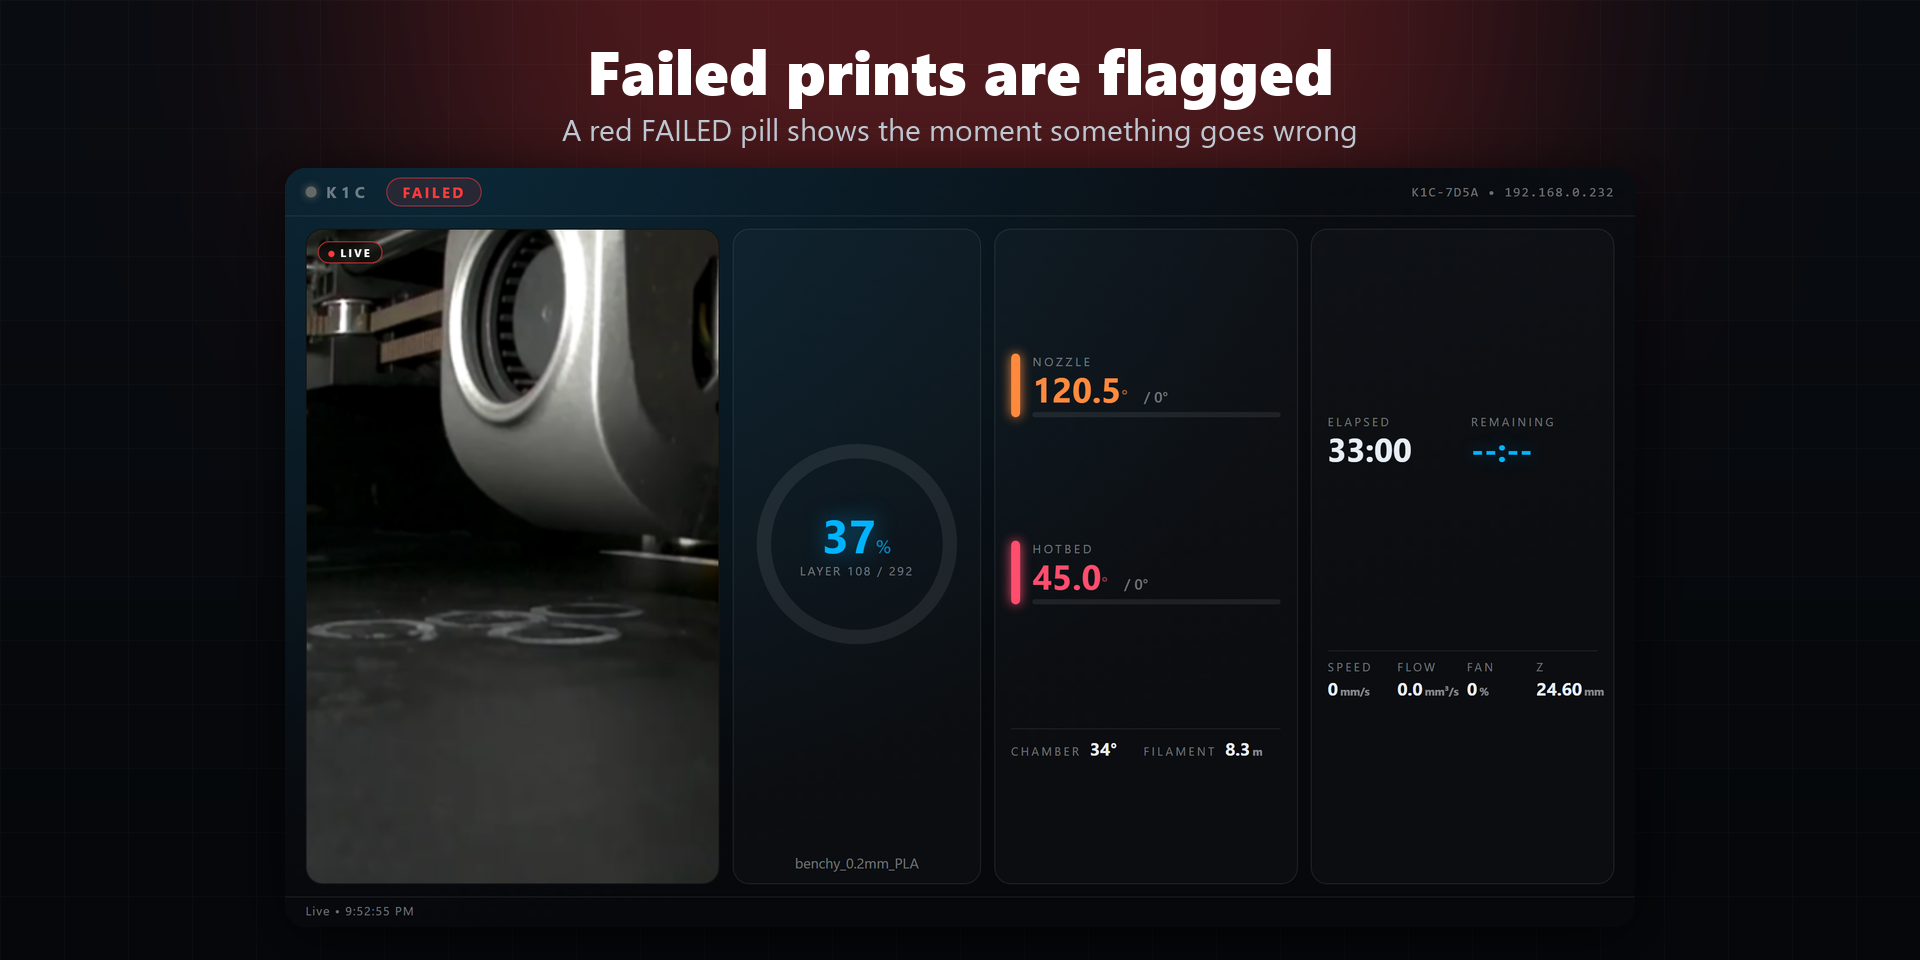
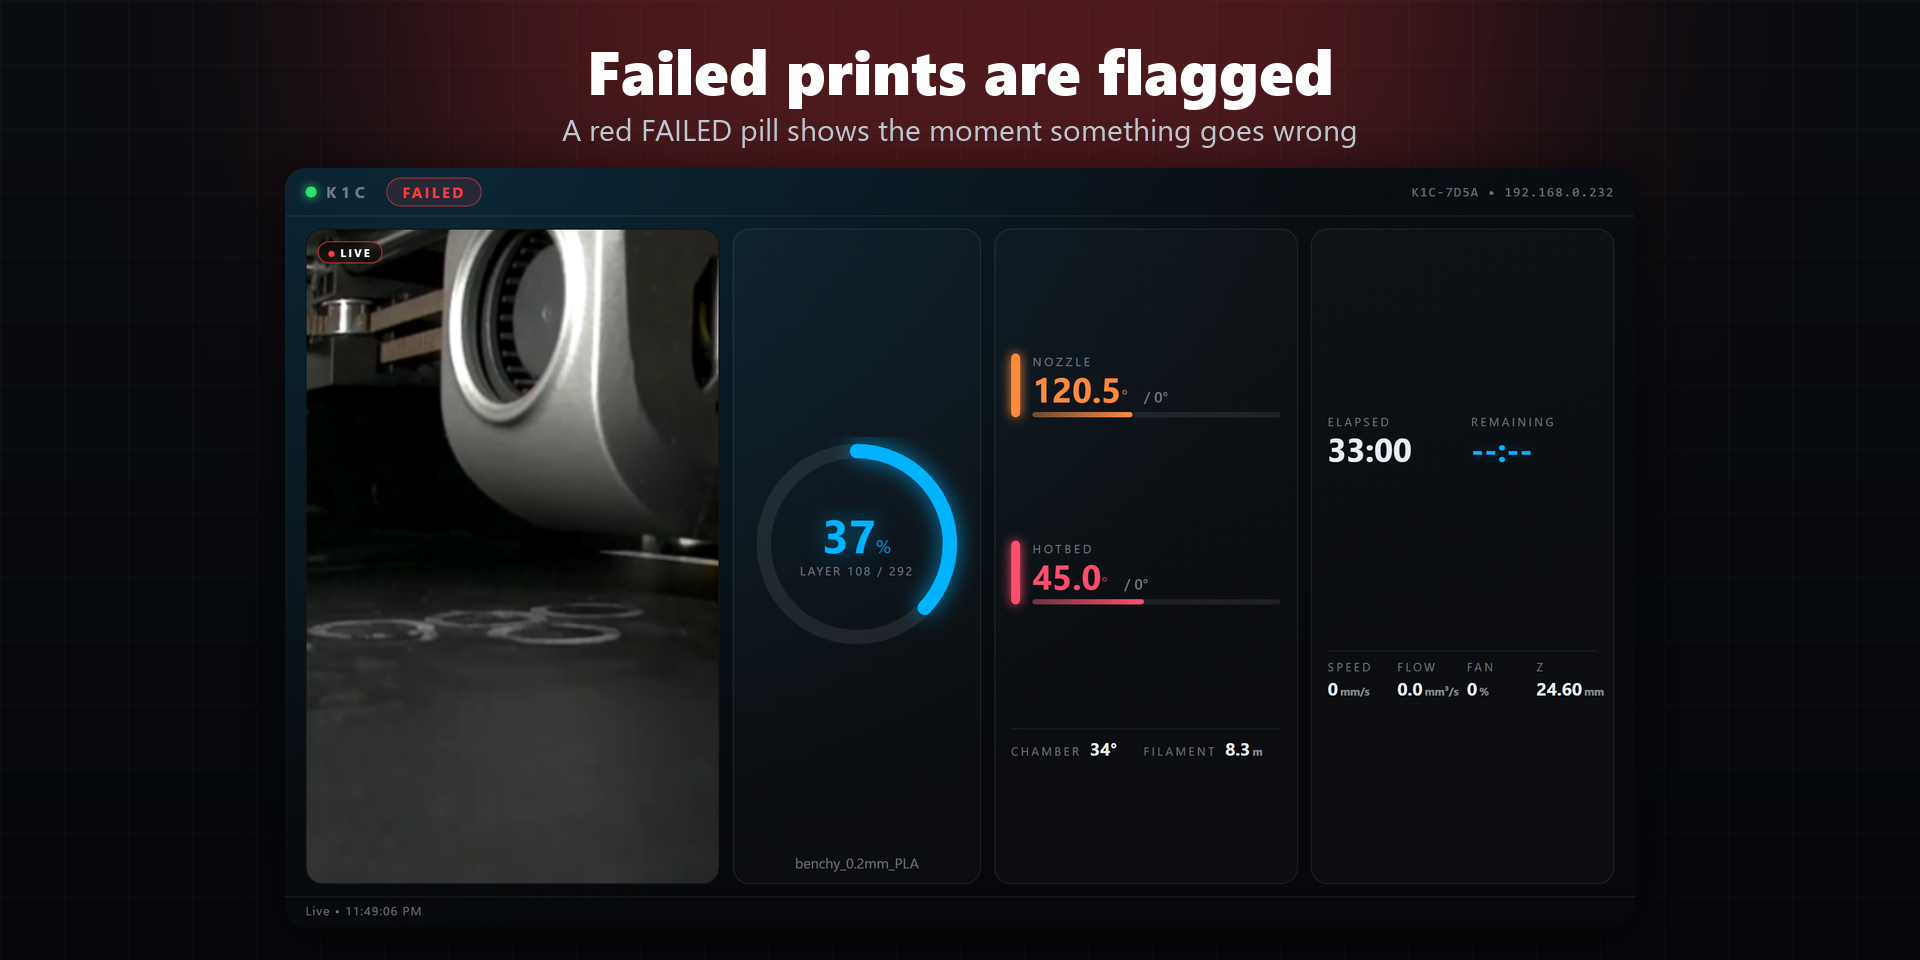
v1.3.2: fix state codes (5 = PAUSED, 4 = STOPPED), add PAUSING/STOPPING/STARTING

diff --git a/CrealityMonitor_Template/scripts/main.js b/CrealityMonitor_Template/scripts/main.js
@@ -63,14 +63,17 @@ function fmtClock(d) { return pad(d.getHours()) + ":" + pad(d.getMinutes()); }
 
 /* ----------------------------------------------------------- state labels */
 
-// Стойности на полето `state` при Creality K-серия
+// Стойности на полето `state` при Creality K-серия (потвърдени на K1C: 5 = пауза, 4 = спрян)
 var STATES = {
     0: { text: "IDLE",     cls: "" },
     1: { text: "PRINTING", cls: "" },
     2: { text: "COMPLETE", cls: "ok" },
     3: { text: "FAILED",   cls: "error" },
-    4: { text: "PAUSED",   cls: "warn" },
-    5: { text: "STOPPED",  cls: "warn" }
+    4: { text: "STOPPED",  cls: "warn" },
+    5: { text: "PAUSED",   cls: "warn" },
+    6: { text: "PAUSING",  cls: "warn" },
+    7: { text: "STOPPING", cls: "warn" },
+    9: { text: "STARTING", cls: "" }
 };
 
 function describeState() {

diff --git a/tools/render_shots.py b/tools/render_shots.py
@@ -41,7 +41,7 @@ STATES = {
     "heating": dict(state=1, printProgress=1, layer=2, nozzleTemp=148.3, targetNozzleTemp=220,
                     bedTemp0=47.9, targetBedTemp0=60, printJobTime=95, printLeftTime=5400,
                     realTimeSpeed=40, realTimeFlow=1.2, modelFanPct=0, curPosition="X:30.00 Y:20.00 Z:0.40"),
-    "paused": dict(state=4, printProgress=41, layer=120, nozzleTemp=215.1, targetNozzleTemp=220,
+    "paused": dict(state=5, printProgress=41, layer=120, nozzleTemp=215.1, targetNozzleTemp=220,
                    bedTemp0=60.0, targetBedTemp0=60, printJobTime=2410, printLeftTime=3400,
                    realTimeSpeed=0, realTimeFlow=0, modelFanPct=0),
     "complete": dict(state=2, printProgress=100, layer=292, TotalLayer=292, nozzleTemp=32.1, targetNozzleTemp=0,
